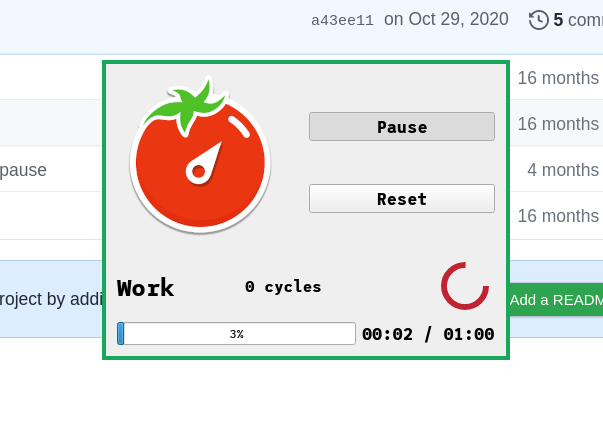
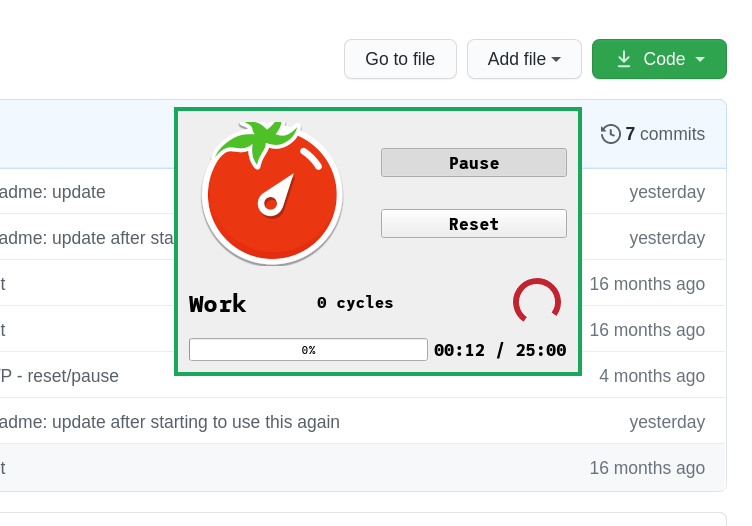
feat: update length + screenshot

diff --git a/pomodoro.py b/pomodoro.py
@@ -31,18 +31,13 @@ STATE_LABELS = {
 
 class CloseableQWidget(QWidget):
 
-    def __init__(self, parent):
+    def __init__(self):
         super().__init__()
         self.loop_stopper = None
-        self.parent = parent
 
     def keyPressEvent(self, e):
         if e.key() == Qt.Key_Q:
             self.close()
-        if e.key() == Qt.Key_P:
-            self.parent.toggle()
-        if e.key() == Qt.Key_R:
-            self.parent.reset()
     def closeEvent(self, e):
         if self.loop_stopper is not None:
             self.loop_stopper.set()
@@ -169,7 +164,7 @@ class Pomodoro():
         self.progress.setMinimum(0)
         self.progress.setValue(0)
 
-        self.window = CloseableQWidget(self)
+        self.window = CloseableQWidget()
         self.window.setGeometry(770, 440, 400, 200)
 
         self.outer_vertical = QVBoxLayout()
